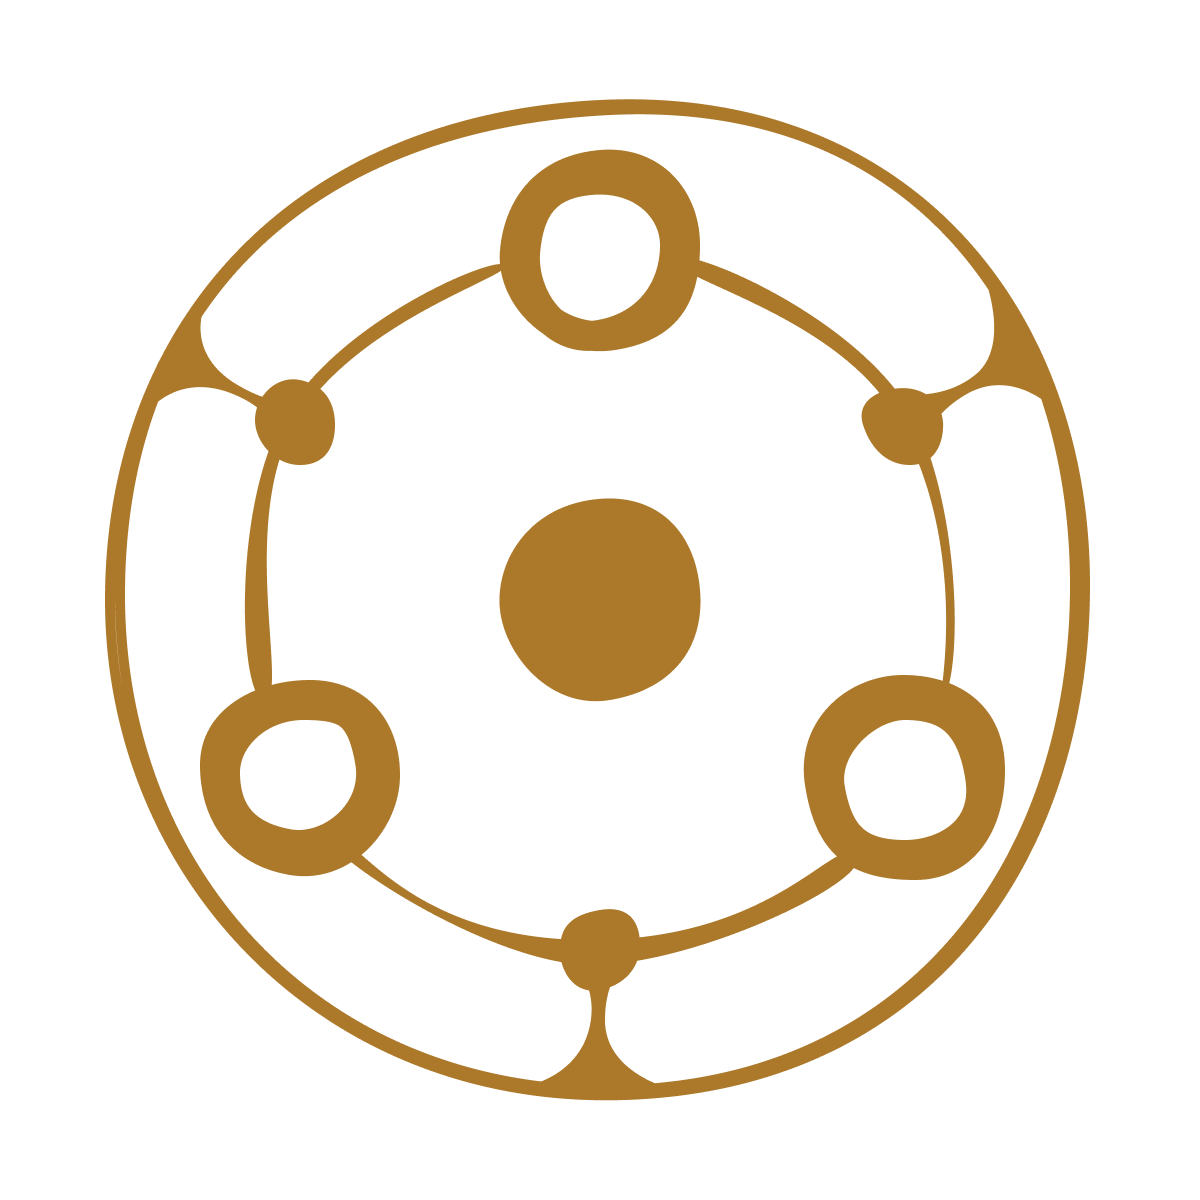
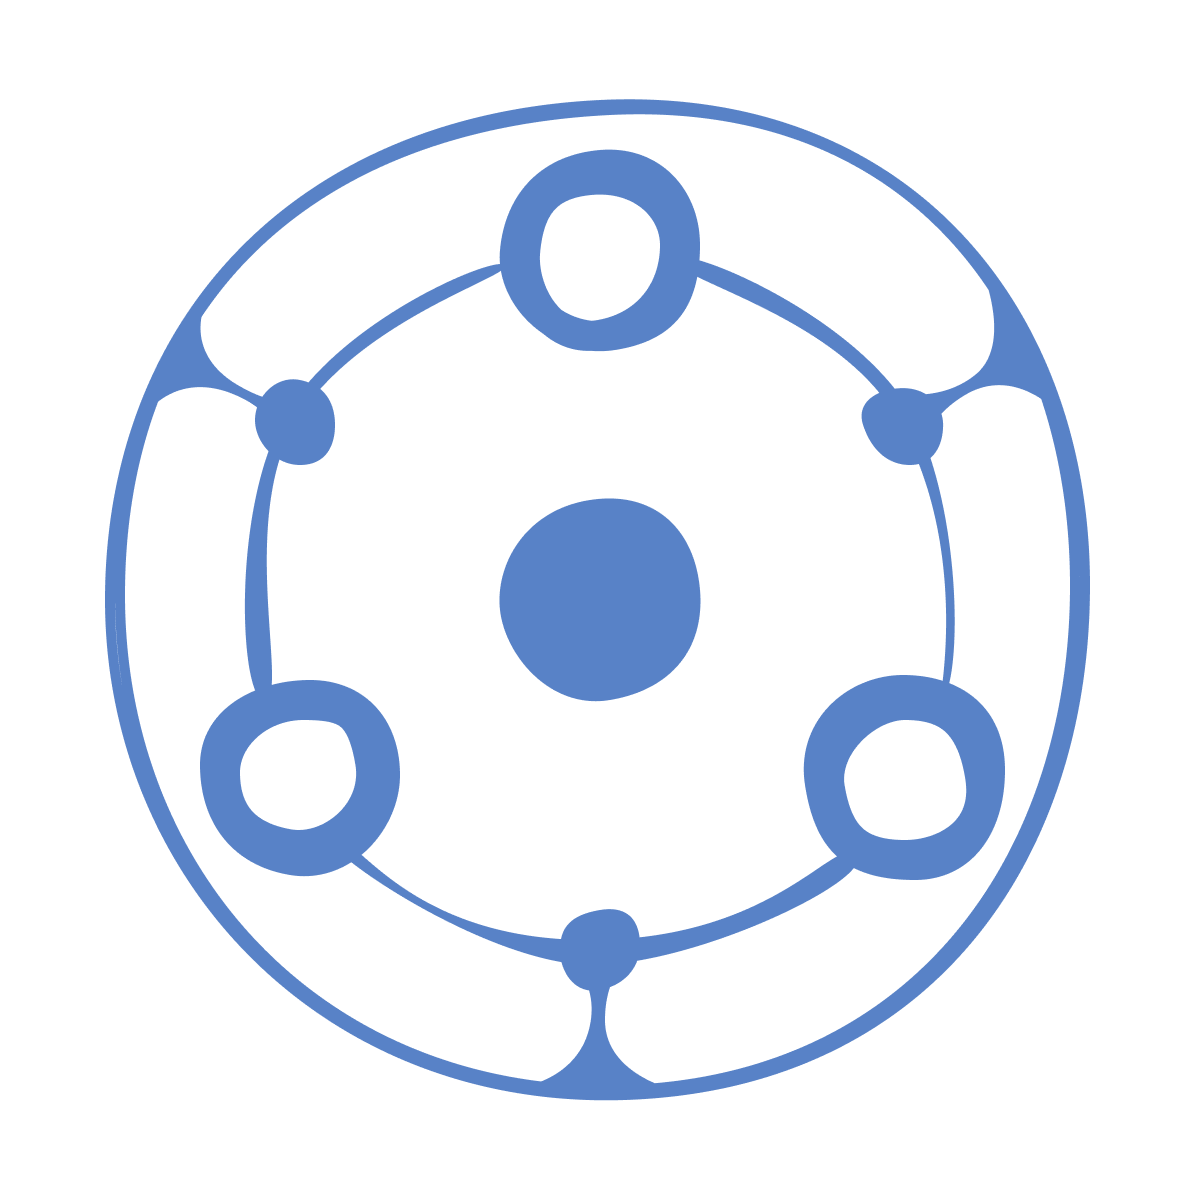
change style to light blue

diff --git a/css/app.css b/css/app.css
@@ -1,17 +1,14 @@
-@import url('https://fonts.googleapis.com/css2?family=Neucha&display=swap');
+@import url('https://fonts.googleapis.com/css2?family=Nunito&display=swap');
 :root {
-    --font: 'Neucha', sans-serif;
-    --text: #AC782A;
-    --fon-header: #EAC76F;
-    --fon: #FFE7AB;
+  --font: 'Nunito', sans-serif;
+  --text: #5882C7;
+  --fon-header: #EAC76F;
+  --fon: #E2E9F5;
 }
 
 
 body {
-  background-image: url(/img/background.jpg);
-  /* background-repeat: no-repeat; */
-  /* background-attachment: fixed; */
-  /* background-size: cover; */
+  background-color: var(--fon);
   font-family: var(--font);
   color: var(--text);
   font-size: 1.2rem;
